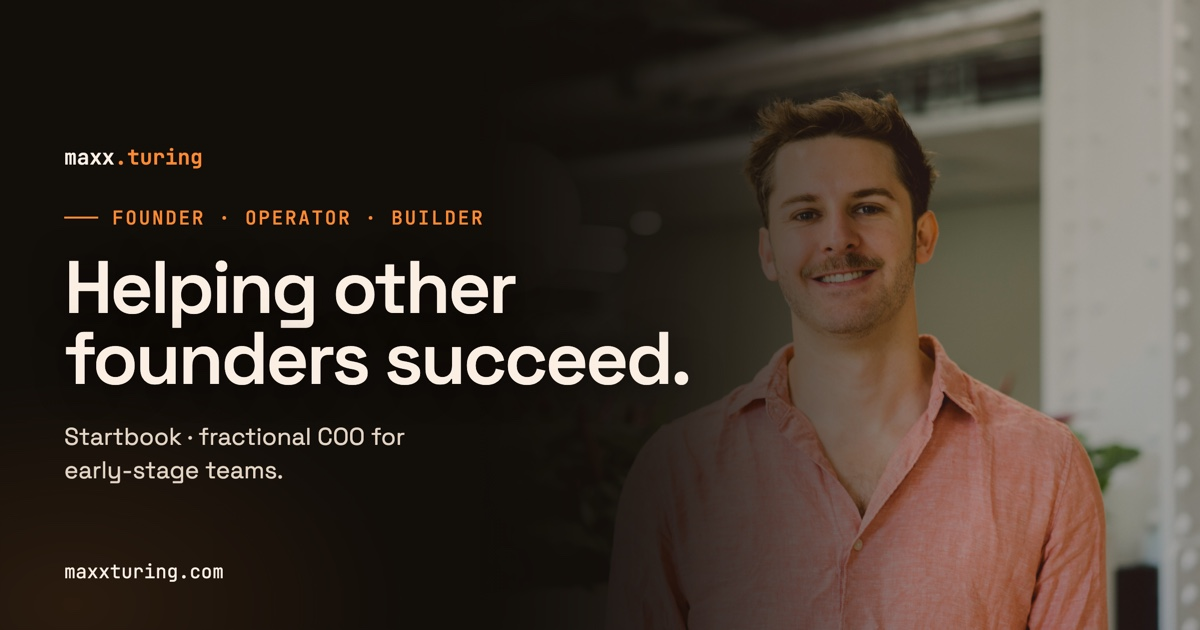
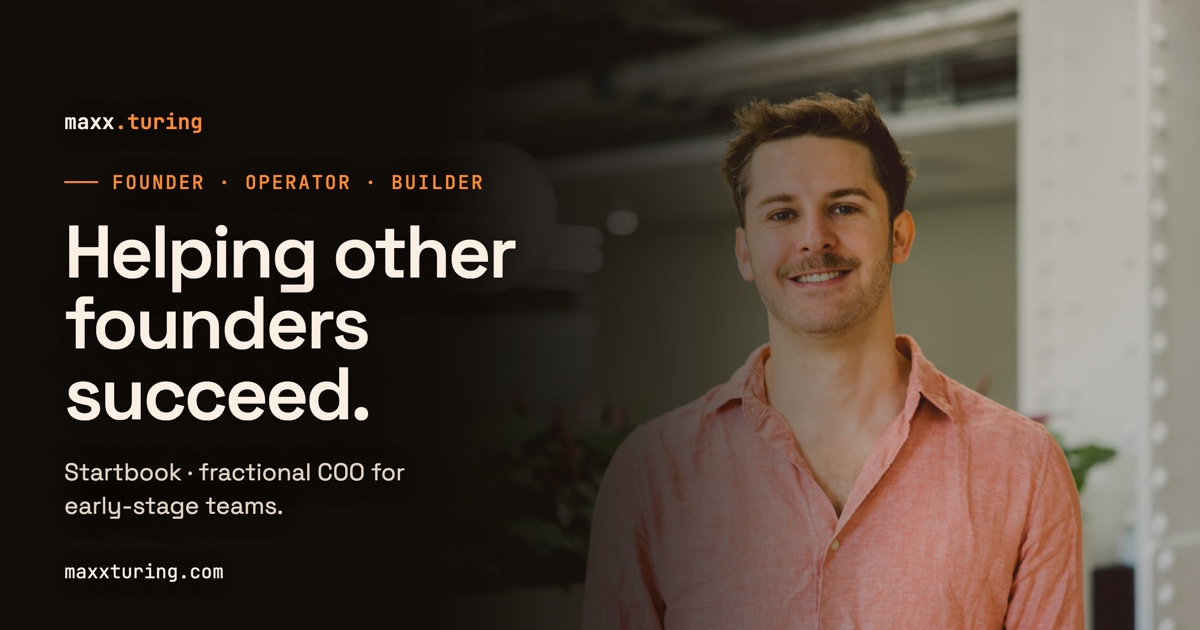
Social preview: match the hero's photo treatment, bust the cache
The card was noticeably darker than the site it represents. I'd hand-built
it instead of copying the hero's numbers and drifted on two: photo
brightness 0.96 vs the hero's 1.05, and a much heavier feather that stayed
opaque to 32% and was gone by 82%, against the hero's gentle fade across
the full width. The feather did most of the damage — everything left of
the portrait went flat black instead of letting the office show through.

Now uses the hero's exact mask-image, filter, duotone multiply and feather,
with text-shadows on the smaller type to hold contrast over the lighter
backdrop.

WhatsApp caches previews per URL and the link has already been shared, so
the meta tags point at og-cover.jpg?v=2 — a new URL to every scraper, one
file on disk. Bump the number next time rather than renaming the file.

diff --git a/index.html b/index.html
@@ -13,7 +13,7 @@
 <meta property="og:type" content="website" />
 <meta property="og:title" content="Maxx Turing — Founder & Operator" />
 <meta property="og:description" content="Tech entrepreneur helping other founders succeed. Founder at Startbook and fractional COO for early-stage teams." />
-<meta property="og:image" content="https://maxxturing.com/assets/img/og-cover.jpg" />
+<meta property="og:image" content="https://maxxturing.com/assets/img/og-cover.jpg?v=2" />
 <meta property="og:image:width" content="1200" />
 <meta property="og:image:height" content="630" />
 <meta property="og:image:alt" content="Maxx Turing — helping other founders succeed." />
@@ -21,7 +21,7 @@
 <meta name="twitter:card" content="summary_large_image" />
 <meta name="twitter:title" content="Maxx Turing — Founder & Operator" />
 <meta name="twitter:description" content="Tech entrepreneur helping other founders succeed." />
-<meta name="twitter:image" content="https://maxxturing.com/assets/img/og-cover.jpg" />
+<meta name="twitter:image" content="https://maxxturing.com/assets/img/og-cover.jpg?v=2" />
 <meta name="twitter:image:alt" content="Maxx Turing — helping other founders succeed." />
 <link rel="stylesheet" href="site.css" />
 </head>

diff --git a/_includes/head-notags.html b/_includes/head-notags.html
@@ -7,7 +7,7 @@
 <meta name="author" content="Maxx Turing" />
 
 <!-- Open Graph protocol -->
-<meta prefix="og: http://ogp.me/ns#" property="og:image" itemprop="image" content="https://maxxturing.com/assets/img/og-cover.jpg" />
+<meta prefix="og: http://ogp.me/ns#" property="og:image" itemprop="image" content="https://maxxturing.com/assets/img/og-cover.jpg?v=2" />
 <meta prefix="og: http://ogp.me/ns#" property="og:title" content="Maxx Turing" />
 <meta prefix="og: http://ogp.me/ns#" property="og:type" content="website" />
 <meta prefix="og: http://ogp.me/ns#" property="og:url" content="https://maxxturing.com/" />
@@ -17,7 +17,7 @@
 <meta property="twitter:card" content="summary_large_image" />
 <meta property="twitter:title" content="Maxx Turing" />
 <meta	property="twitter:description" content="Maxx Turing | Founder at Startbook | Tech entrepreneur helping other founders succeed."/>
-<meta property="twitter:image" content="https://maxxturing.com/assets/img/og-cover.jpg" />
+<meta property="twitter:image" content="https://maxxturing.com/assets/img/og-cover.jpg?v=2" />
 <!--   
   <meta charset="utf-8">
 	<title>{% if page.title %}{{page.title}} - {{site.title}}{% else %}{{site.title}}{% endif %}</title>

diff --git a/timeline/index.html b/timeline/index.html
@@ -13,13 +13,13 @@
 <meta property="og:type" content="website" />
 <meta property="og:title" content="Maxx Turing — The Journey" />
 <meta property="og:description" content="The full path — from Bavaria to building companies in early-stage tech." />
-<meta property="og:image" content="https://maxxturing.com/assets/img/og-cover.jpg" />
+<meta property="og:image" content="https://maxxturing.com/assets/img/og-cover.jpg?v=2" />
 <meta property="og:image:width" content="1200" />
 <meta property="og:image:height" content="630" />
 <meta property="og:image:alt" content="Maxx Turing — helping other founders succeed." />
 <meta property="og:url" content="https://maxxturing.com/timeline" />
 <meta name="twitter:card" content="summary_large_image" />
-<meta name="twitter:image" content="https://maxxturing.com/assets/img/og-cover.jpg" />
+<meta name="twitter:image" content="https://maxxturing.com/assets/img/og-cover.jpg?v=2" />
 <meta name="twitter:image:alt" content="Maxx Turing — helping other founders succeed." />
 <link rel="stylesheet" href="/site.css" />
 <style>
